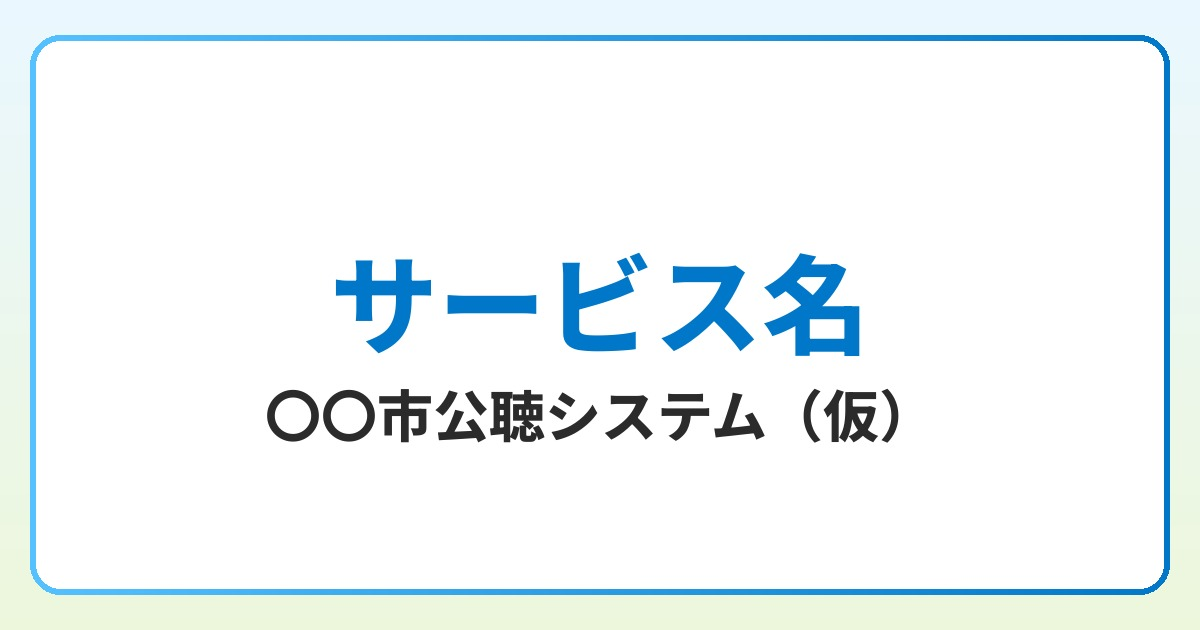
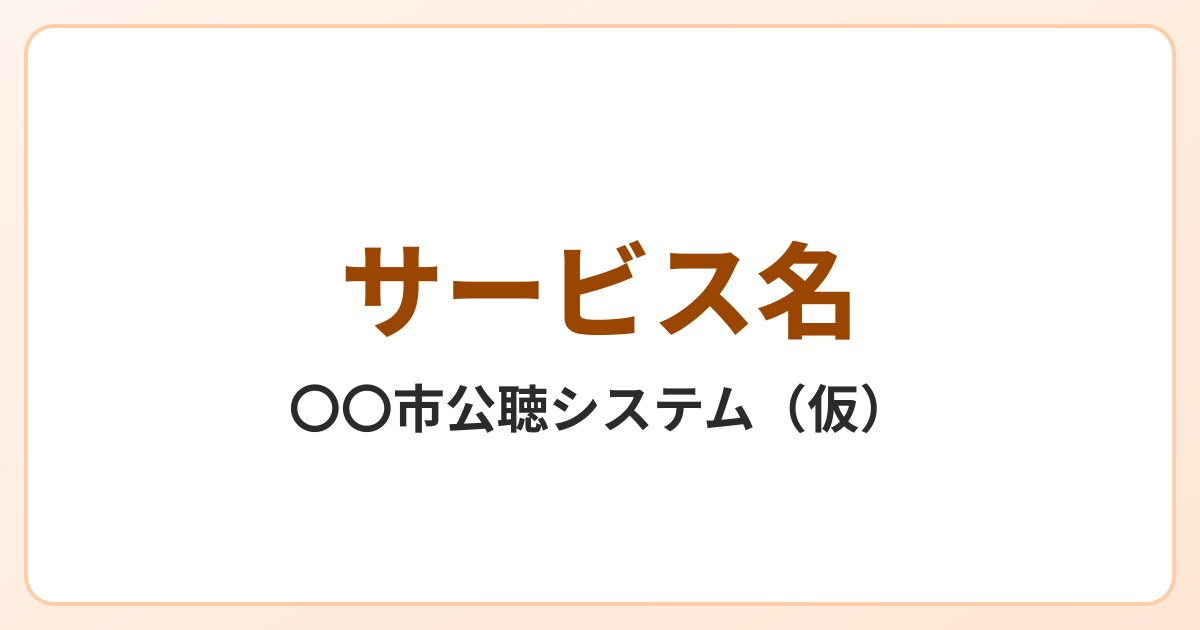
カラーパレットを水色基調からパステルオレンジ基調に差し替える
佐賀市と同じ水色のままだと営業デモで導入先の色に見えないため、
vanilla の配色をパステルオレンジに変えた。

## パレット（packages/branding/src/palette.ts）
色の唯一の出所である `PRIMITIVES` の値だけを差し替え、トークン名・
シェードの刻み・用途の割り当て（要求仕様3章の構造）はそのまま残した。

- sky ランプ: #fff4ec / #ffe6d5 / #ffcda8 / #ffab63 / #ff9440 /
  #b25200 / #9a4600（50 → 800）
- base-surface と base-ink-muted も寒色から暖色寄りに: #faf5f0 / #6b6259
- `accent`（shadcn のホバー・フォーカス面）は lavender/300 から sky/100 へ。
  紫のままだとオレンジ基調の中で浮くため。lavender 自体は AI 関連の
  差し色として `PRIMITIVES` に残す

`sky-*` というキー名は意図的に改名していない。トークン名は Tailwind の
ユーティリティクラス（`bg-sky-400` 等）としてコンポーネントから参照されており、
develop が新しく `sky-*` を使うコードを追加したときにこのブランチへマージすると、
クラスが解決できずビルドエラーにもならないまま色が抜け落ちる。名前の
分かりにくさより、その無言の破損を避けることを取った（理由は palette.ts に明記）。

## コントラスト
`palette.test.ts` の機械的検証はすべて通過している。

- sky/400（primary 面）は対白 1.9:1 で、白文字禁止ルール（D-13）を維持。
  base-ink を載せると 7.6:1
- sky/700（--ring / プログレスバー）は対白 5.1:1（従来 4.7:1 より向上）
- sky/800（文字用アクセント）は base-white 6.5 / base-surface 6.0 /
  sky-50 6.0 / sky-100 5.4 で、文字が載りうる薄い面すべてで AA を満たす
- 実測値は `palette.test.ts` の期待値表に固定した

## アセット
- PWAアイコン・favicon の生成元SVG（`scripts/pwa-icons/*.svg`、
  `web|admin/src/app/icon.svg`）をオレンジに変更し、PNGを再生成
- ヒーロー画像 `web/public/img/hero_background.png` を差し替え。従来の
  青い波の画像は色相回転では赤〜オリーブに転ぶため、パステルオレンジの
  波のグラフィックを新規に作成した（ストック画像の "CIVIC ENGAGEMENT"
  ワードマークも落ちるので中立化の面でも都合がよい）
- OGP画像 `web/public/ogp.jpg` を同じ構図のままオレンジで再生成
- インタビューLP・チャット送信ボタン等で使う12個のアイコンSVGが
  ティール（#2AA693 系）だったので sky ランプの値に置換

## 生成物
`packages/branding/tokens.css` は `build:css` で再生成済み
（`tokens-css.test.ts` が同期を検証する）。
[…]

Changed region(s): [[0.0, 0.0, 1.0, 0.9651], [0.2775, 0.3619, 0.74, 0.573], [0.2158, 0.6032, 0.7708, 0.7238]]

diff --git a/packages/branding/src/palette.ts b/packages/branding/src/palette.ts
@@ -1,10 +1,20 @@
 /**
- * AI公聴基盤 デザイントークン（案3-1 水色基調）
+ * AI公聴基盤 デザイントークン（vanilla: パステルオレンジ基調）
  *
  * ここが色の唯一の出所。`tokens.css` は `pnpm --filter @mirai-gikai/branding build:css`
  * で本ファイルから生成する（`tokens-css.test.ts` が同期を検証する）。
  *
- * 値の根拠は Epic #8 の要求仕様3章。すべて `#FFFFFF` 背景上での使用を前提とする。
+ * 構造（トークン名・シェードの刻み・用途の割り当て）は要求仕様3章のままで、
+ * 色だけを水色基調からパステルオレンジ基調に差し替えている。
+ *
+ * `sky-*` というキー名を残しているのは意図的で、改名していない。トークン名は
+ * Tailwind のユーティリティクラス（`bg-sky-400` 等）としてコンポーネントから
+ * 参照されており、上流（develop）が新しく `sky-*` を使うコードを追加したときに
+ * このブランチへマージすると、クラスが解決できずビルドエラーにもならないまま
+ * 色が抜け落ちる。名前の分かりにくさより、その無言の破損を避けることを取った。
+ *
+ * すべて `#FFFFFF` 背景上での使用を前提とし、コントラスト比は
+ * `palette.test.ts` が機械的に検証する。
  */
 
 /** プリミティブパレット。キーが CSS 変数名（`--color-<key>`）になる */
@@ -12,23 +22,23 @@ export const PRIMITIVES = {
   // Base
   "base-white": "#ffffff",
   "base-ink": "#2b2b2b",
-  "base-ink-muted": "#5a6570",
-  "base-surface": "#f4f7fa",
+  "base-ink-muted": "#6b6259",
+  "base-surface": "#faf5f0",
 
-  // Sky（プライマリ／優先度1）
-  "sky-50": "#eaf7ff",
-  "sky-100": "#d6efff",
-  "sky-200": "#aedfff",
-  "sky-400": "#55c1ff",
-  "sky-500": "#2fb0ff",
-  "sky-700": "#0077c8",
+  // Sky（プライマリ／優先度1）＝ vanilla ではパステルオレンジ
+  "sky-50": "#fff4ec",
+  "sky-100": "#ffe6d5",
+  "sky-200": "#ffcda8",
+  "sky-400": "#ffab63",
+  "sky-500": "#ff9440",
+  "sky-700": "#b25200",
   /**
    * 仕様3.1のパレットには無い拡張シェード（2026-09-01 追加、Epic #8 に記録）。
    * 本文の地が base-surface になったことで sky-700 の通常サイズ文字が
-   * 有彩色面・薄グレー面上で 4.5:1 を割るため、文字用アクセントとして新設した。
-   * base-surface 5.4:1 / sky-50 5.4:1 / sky-100 4.9:1。--ring は従来どおり sky-700。
+   * 有彩色面・薄い面の上で 4.5:1 を割りうるため、文字用アクセントとして新設した。
+   * base-surface 6.0:1 / sky-50 6.0:1 / sky-100 5.4:1。--ring は従来どおり sky-700。
    */
-  "sky-800": "#0068af",
+  "sky-800": "#9a4600",
 
   // Green ＝ 黄緑（差し色／優先度2）
   "green-100": "#edf7dc",
@@ -56,7 +66,7 @@ export type PrimitiveToken = keyof typeof PRIMITIVES;
 /**
  * shadcn/ui セマンティック変数へのマッピング（要求仕様3.3）。
  *
- * `--primary-foreground` が `base-ink` である点が最重要。`sky-400` は対白 2.0:1 しかなく、
+ * `--primary-foreground` が `base-ink` である点が最重要。`sky-400` は対白 1.9:1 しかなく、
  * 白文字を載せると WCAG AA を満たさないため、有彩色の面に載せる文字は黒で統一する（D-13）。
  */
 export const SEMANTICS = {
@@ -73,7 +83,9 @@ export const SEMANTICS = {
   "secondary-foreground": "base-ink",
   muted: "base-surface",
   "muted-foreground": "base-ink-muted",
-  accent: "lavender-300",
+  // ホバー・フォーカスの面。shadcn の各UIが広く使うので、
+  // 紫を残すとオレンジ基調の中で浮くため sky 系の淡色に寄せた
+  accent: "sky-100",
   "accent-foreground": "base-ink",
   destructive: "system-destructive",
   "destructive-foreground": "base-white",

diff --git a/packages/branding/src/brand-meta.ts b/packages/branding/src/brand-meta.ts
@@ -11,9 +11,9 @@ import { PRIMITIVES } from "./palette";
 /**
  * ブラウザのUIバー・PWAのテーマ色。
  *
- * 大面積に載る色なので、D-5「大面積の渋いブルーを避ける」に従い `sky/400` を使う。
- * `sky/700` は対白4.7:1と可読性は高いが、ブラウザクロームを暗い青で埋めることになり
- * 案3-1の「明るくフレンドリー」（D-2）と衝突する。
+ * 大面積に載る色なので、D-5「大面積に渋い色を置かない」に従い `sky/400`
+ * （パステルオレンジ）を使う。`sky/700` は対白5.1:1と可読性は高いが、
+ * ブラウザクロームを濃い茶で埋めることになり「明るくフレンドリー」（D-2）と衝突する。
  */
 export const THEME_COLOR = PRIMITIVES["sky-400"];
 
@@ -23,8 +23,8 @@ export const BACKGROUND_COLOR = PRIMITIVES["base-white"];
 /**
  * ページ遷移のプログレスバー（NextTopLoader）。
  *
- * 高さ数pxの細い線なので、面と同じ `sky/400`（対白2.0:1）では視認できない。
- * WCAG 2.1 のUI部品基準3:1を満たす `sky/700`（4.7:1）を使う。
+ * 高さ数pxの細い線なので、面と同じ `sky/400`（対白1.9:1）では視認できない。
+ * WCAG 2.1 のUI部品基準3:1を満たす `sky/700`（5.1:1）を使う。
  * THEME_COLOR とは意図的に別の値だが、出所は同じパレット。
  */
 export const PROGRESS_BAR_COLOR = PRIMITIVES["sky-700"];
@@ -49,14 +49,15 @@ export const OG_COLORS = {
   /**
    * 1200x630 の地のグラデーション両端。
    *
-   * 大面積なので D-5「大面積の渋いブルーを避ける」に従い淡いトーンに留め、
-   * sky（優先度1）から黄緑（優先度2）へ流す。
+   * 大面積なので D-5「大面積に渋い色を置かない」に従い淡いトーンに留める。
+   * 上流では sky（優先度1）から黄緑（優先度2）へ流していたが、パステルオレンジ
+   * 基調では黄緑へ抜けると色相が飛ぶため、sky 同系の濃淡でまとめる。
    * グラデーション文字列そのものではなく両端の色を持つのは、
    * このオブジェクトの値がすべてパレットのプリミティブであることを
    * `brand-meta.test.ts` が検証しているため。
    */
   canvasFrom: PRIMITIVES["sky-50"],
-  canvasTo: PRIMITIVES["green-100"],
+  canvasTo: PRIMITIVES["sky-100"],
   /** カード枠のグラデーション両端。6pxの装飾なので濃淡をつけて奥行きを出す */
   frameFrom: PRIMITIVES["sky-400"],
   frameTo: PRIMITIVES["sky-700"],

diff --git a/packages/branding/tokens.css b/packages/branding/tokens.css
@@ -1,5 +1,5 @@
 /**
- * AI公聴基盤 デザイントークン（案3-1 水色基調）
+ * AI公聴基盤 デザイントークン（vanilla: パステルオレンジ基調）
  *
  * このファイルは自動生成です。直接編集しないでください。
  * 値の変更は packages/branding/src/palette.ts を編集し、
@@ -10,15 +10,15 @@
   /* プリミティブパレット */
   --color-base-white: #ffffff;
   --color-base-ink: #2b2b2b;
-  --color-base-ink-muted: #5a6570;
-  --color-base-surface: #f4f7fa;
-  --color-sky-50: #eaf7ff;
-  --color-sky-100: #d6efff;
-  --color-sky-200: #aedfff;
-  --color-sky-400: #55c1ff;
-  --color-sky-500: #2fb0ff;
-  --color-sky-700: #0077c8;
-  --color-sky-800: #0068af;
+  --color-base-ink-muted: #6b6259;
+  --color-base-surface: #faf5f0;
+  --color-sky-50: #fff4ec;
+  --color-sky-100: #ffe6d5;
+  --color-sky-200: #ffcda8;
+  --color-sky-400: #ffab63;
+  --color-sky-500: #ff9440;
+  --color-sky-700: #b25200;
+  --color-sky-800: #9a4600;
   --color-green-100: #edf7dc;
   --color-green-400: #8cc63f;
   --color-green-500: #7ab32f;
@@ -66,7 +66,7 @@
   /* シャドウ（D-6: 面の区切りは線ではなくシャドウで表現する） */
   --shadow-card: 0 1px 2px rgba(43, 43, 43, 0.06), 0 1px 1px rgba(43, 43, 43, 0.04);
   --shadow-raised: 0 2px 6px rgba(43, 43, 43, 0.08);
-  --shadow-focus: 0 0 0 3px rgba(0, 119, 200, 0.35);
+  --shadow-focus: 0 0 0 3px rgba(178, 82, 0, 0.35);
 }
 
 @layer base {
@@ -105,7 +105,7 @@
   --secondary-foreground: var(--color-base-ink);
   --muted: var(--color-base-surface);
   --muted-foreground: var(--color-base-ink-muted);
-  --accent: var(--color-lavender-300);
+  --accent: var(--color-sky-100);
   --accent-foreground: var(--color-base-ink);
   --destructive: var(--color-system-destructive);
   --destructive-foreground: var(--color-base-white);

diff --git a/packages/branding/src/palette.test.ts b/packages/branding/src/palette.test.ts
@@ -24,22 +24,27 @@ describe("プリミティブパレット", () => {
   });
 
   it("コントラスト比が期待値どおり（対 base-white）", () => {
-    // 要求仕様 付録「コントラスト早見表」の実測値。仕様の表には以下3件の誤りがあり、
-    // 本テストは WCAG 2.1 の定義に基づく計算結果を正とする（Epic #8 に報告済み）。
+    // WCAG 2.1 の定義に基づく計算結果。値を動かしたときに「どの用途に使えるか」の
+    // 判定（AA 4.5:1 / 3:1）が静かに変わるのを防ぐため、実測値をここに固定する。
+    //
+    // sky ランプは vanilla のパステルオレンジ基調の実測値で、要求仕様 付録
+    // 「コントラスト早見表」の水色基調の値とは一致しない。それ以外は仕様どおりだが、
+    // 仕様の表には以下3件の誤りがある（Epic #8 に報告済み）。
     //   base-ink    仕様 15.3 → 実測 14.2
     //   yellow-400  仕様  2.3 → 実測  1.4
     //   lavender-500 仕様 4.0 → 実測  3.9
-    // いずれも「どの用途に使えるか」の判定（AA 4.5:1 / 3:1）は仕様の意図と変わらない。
     const expected: Array<[keyof typeof PRIMITIVES, number]> = [
       ["base-ink", 14.2],
-      ["base-ink-muted", 5.9],
+      ["sky-800", 6.5],
+      ["base-ink-muted", 6.0],
       ["lavender-600", 5.8],
-      ["sky-700", 4.7],
+      ["sky-700", 5.1],
       ["green-700", 4.7],
       ["lavender-500", 3.9],
-      ["yellow-400", 1.4],
+      ["sky-500", 2.2],
       ["green-400", 2.0],
-      ["sky-400", 2.0],
+      ["sky-400", 1.9],
+      ["yellow-400", 1.4],
     ];
 
     for (const [token, ratio] of expected) {

diff --git a/packages/branding/src/shadows.test.ts b/packages/branding/src/shadows.test.ts
@@ -8,7 +8,7 @@ describe("rgba", () => {
   });
 
   it("パレットの値から変換するので二重管理にならない", () => {
-    expect(rgba(PRIMITIVES["sky-700"], 0.35)).toBe("rgba(0, 119, 200, 0.35)");
+    expect(rgba(PRIMITIVES["sky-700"], 0.35)).toBe("rgba(178, 82, 0, 0.35)");
   });
 });
 
@@ -28,7 +28,7 @@ describe("シャドウトークン（要求仕様3.4）", () => {
   });
 
   it("focus は sky/700 由来のリング", () => {
-    expect(SHADOWS.focus).toBe("0 0 0 3px rgba(0, 119, 200, 0.35)");
+    expect(SHADOWS.focus).toBe("0 0 0 3px rgba(178, 82, 0, 0.35)");
   });
 
   it("card / raised は base-ink 系（有彩色のシャドウを使わない）", () => {

diff --git a/web/src/app/dev/ui/page.tsx b/web/src/app/dev/ui/page.tsx
@@ -113,7 +113,7 @@ export default function UIPreviewPage() {
       </ComponentShowcase>
       <ComponentShowcase
         title="Color Tokens"
-        description="@mirai-gikai/branding（案3-1パレット）"
+        description="@mirai-gikai/branding（パステルオレンジ）"
       >
         <PreviewSection label="面トークン（文字は base-ink。白文字は禁止）">
           <div className="flex flex-wrap gap-3">

diff --git a/packages/branding/src/generate-css.ts b/packages/branding/src/generate-css.ts
@@ -67,7 +67,7 @@ export function renderTokensCss(): string {
     .join("\n");
 
   return `/**
- * AI公聴基盤 デザイントークン（案3-1 水色基調）
+ * AI公聴基盤 デザイントークン（vanilla: パステルオレンジ基調）
  *
  * このファイルは自動生成です。直接編集しないでください。
  * 値の変更は packages/branding/src/palette.ts を編集し、

diff --git a/packages/branding/src/brand-meta.test.ts b/packages/branding/src/brand-meta.test.ts
@@ -24,7 +24,7 @@ describe("ブランドメタ", () => {
     }
   });
 
-  it("theme-color は明るい水色（D-5: 大面積の渋いブルーを避ける）", () => {
+  it("theme-color は明るいパステルオレンジ（D-5: 大面積に渋い色を置かない）", () => {
     expect(THEME_COLOR).toBe(PRIMITIVES["sky-400"]);
   });
 

diff --git a/scripts/pwa-icons/README.md b/scripts/pwa-icons/README.md
@@ -14,7 +14,7 @@
 
 このブランチ（vanilla）のロゴは特定自治体に紐づかない吹き出しマークで、ページ上のワードマークは `web/src/components/brand/site-logo.tsx` が文字で組んでいます（画像ではありません）。
 
-色は案3-1パレットの `sky/500 #2fb0ff` → `sky/700 #0077c8`（`--primary` 系から `--primary-accent` へ）のグラデーションです。`sky/400` 単色は白背景で 2.0:1 しかなく favicon が視認できないため、暗い側に `sky/700`（4.7:1）を置いて輪郭を確保しています。
+色はパステルオレンジ基調の `sky/500 #ff9440` → `sky/700 #b25200`（`--primary` 系から `--primary-accent` へ）のグラデーションです。`sky/400` 単色は白背景で 1.9:1 しかなく favicon が視認できないため、暗い側に `sky/700`（5.1:1）を置いて輪郭を確保しています。
 
 maskable アイコンとして OS 側で円形・角丸にクロップされるため、図形は中央80%のセーフゾーンに収まるスケールで配置しています。
 
